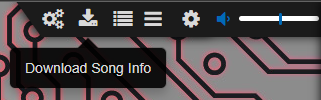
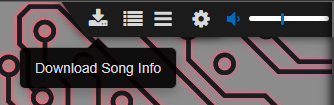
v0.4: Moved configuration to settings tabs

diff --git a/AMQ/SongsDownloader/AMQSongInfoDownloader.user.js b/AMQ/SongsDownloader/AMQSongInfoDownloader.user.js
@@ -1,50 +1,32 @@
 // ==UserScript==
 // @name         AMQ Song Info Downloader
 // @namespace    https://github.com/JabroAMQ/
-// @version      0.3.1
+// @version      0.4
 // @description  Download some info from the songs that played while playing AMQ
 // @author       Jabro, Spitzell
 // @match        https://animemusicquiz.com/*
 // @icon         https://www.google.com/s2/favicons?sz=64&domain=animemusicquiz.com
 // @grant        none
-// @require      https://raw.githubusercontent.com/TheJoseph98/AMQ-Scripts/master/common/amqWindows.js
 // @downloadURL  https://github.com/JabroAMQ/Utilities/blob/main/AMQ/SongsDownloader/AMQSongInfoDownloader.user.js
 // @updateURL    https://github.com/JabroAMQ/Utilities/blob/main/AMQ/SongsDownloader/AMQSongInfoDownloader.user.js
 // ==/UserScript==
 
 /*
 TODO LIST:
-
-- Prettify the output of `addSelectBox()` and `addCheckBox()` in CONFIGURATION WINDOW STUFF
-
-- Modify the way the user can access to the Configuration Window:
-    - Rather than having an in-game button that open a window for configuration (using TheJoseph98's `AMQWindow()` function)
-    - Make so that the configuration window can be opened from the Settings like in nyamu's amqHighlightFriends script case:
-    - https://github.com/nyamu-amq/amq_scripts/blob/master/amqHighlightFriends.user.js
-    - This is:
-        - https://i.imgur.com/iyEGnZm.png
-        - https://i.imgur.com/WkkvJkg.png
-    - Ideally we want to create a new Tab for this script
-    - It should only require to  modify `createConfigWindow()` in CONFIGURATION WINDOW STUFF (and delete `setupConfigWindowButton()`)
-
-- Add more functionallity (event listeners), and add these new options to the Configuration Window:
-    - autoDownloasOnLeavingLobby
+- Add more functionallity (event listeners), and add these new options to the Configuration Tab:
+    - autoDownloasOnLeavingLobby (while playing game only)
     - autoDownloadOnKickedFromLobby
     - autoDownloadOnServerRestart
 
+- Prettify Configuration Tab
 */
 
-const CHECK_INTERVAL = 500;
-const BUTTON_WIDTH = 30;
-const BUTTON_MARGIN_RIGHT = 5;
 const DOMAINS = {
     'EU': 'https://nl.catbox.video/',
     'NA1': 'https://ladst1.catbox.video/',
     'NA2': 'https://abdist1.catbox.video/'
 };
 
-let configWindow;
-let configWindowButton;
 let quizReadyListener;
 let quizOverListener;
 let selectedDomain = 'EU';
@@ -52,7 +34,7 @@ let autoDownloadOnQuizOver = false;
 let clearSongsInfoOnNewQuiz = false;
 let allSongs = [];
 
-// Load the script once the game has started
+// Load the script once the game has been loaded (after log in)
 let loadInterval = setInterval(() => {
     let loadingScreen = document.getElementById('loadingScreen');
     if (loadingScreen && loadingScreen.classList.contains('hidden')) {
@@ -60,12 +42,12 @@ let loadInterval = setInterval(() => {
         setup();
         clearInterval(loadInterval);
     }
-}, CHECK_INTERVAL);
+}, 500);
 
 function setup() {
     setupDownloadButton();
     setupListeners();
-    createConfigWindow();
+    addDownloaderSettingsTab();
 }
 
 
@@ -94,14 +76,17 @@ class SongInfo {
 
 
 function setupDownloadButton() {
+    const buttonWidth = 30;
+    const buttonMarginRight = 5;
+
     let downloadButton = $(`
         <div id='downloadButton' class='clickAble qpOption'>
             <i aria-hidden='true' class='fa fa-download qpMenuItem'></i>
         </div>`)
         .css({
-            width: `${BUTTON_WIDTH}px`,
+            width: `${buttonWidth}px`,
             height: '100%',
-            'margin-right': `${BUTTON_MARGIN_RIGHT}px`
+            'margin-right': `${buttonMarginRight}px`
         })
         .click(function () {
             downloadSongsInfo();
@@ -113,7 +98,7 @@ function setupDownloadButton() {
 	    });
 
     let currentWidth = $('#qpOptionContainer').width();
-    let extraWidth = BUTTON_WIDTH + BUTTON_MARGIN_RIGHT;
+    let extraWidth = buttonWidth + buttonMarginRight;
     $('#qpOptionContainer').width(currentWidth + extraWidth);
     $('#qpOptionContainer > div').append(downloadButton);
 }
@@ -170,48 +155,74 @@ function clearSongsInfo() {
 
 
 ////////////////////////////////////////////////////////////////////////////////
-//////////////////////////  CONFIGURATION WINDOW STUFF   ///////////////////////
+//////////////////////////  CONFIGURATION TAB STUFF   //////////////////////////
 ////////////////////////////////////////////////////////////////////////////////
 
-function createConfigWindow() {
-    configWindow = new AMQWindow({
-        title: 'Song Info Downloader Configuration',
-        position: { x: 0, y: 34 },
-        width: 400,
-        height: 300,
-        zIndex: 1010,
-        resizable: false,
-        draggable: true
-    });
+function addDownloaderSettingsTab() {
+    // Create the "Downloader" tab in settings
+    $('#settingModal .tabContainer')
+        .append($('<div></div>')
+            .addClass('tab songInfoDownloader clickAble')
+            .attr('onClick', "options.selectTab('settingsDownloaderContainer', this)")
+            .append($('<h5></h5>')
+                .text('Downloader')
+            )
+        );
 
-    configWindow.addPanel({
-        id: 'configWindowPanel',
-        width: 1.0,
-        height: 'calc(100%)',
-        scrollable: { x: false, y: false }
-    });
+    // Create the body base for "Downloader" tab
+    let downloaderTabContent = $('<div></div>')
+        .attr('id', 'settingsDownloaderContainer')
+        .addClass('settingContentContainer hide');
+    $('#settingModal .modal-body').append(downloaderTabContent);
 
+
+    // Create the "Change Prefered Host" select box for "Downloader" tab
     addSelectBox('Change prefered host', Object.keys(DOMAINS), (value) => {
         selectedDomain = value;
         saveUserConfig();
-    }, selectedDomain);
+    }, selectedDomain, 'settingsDownloaderContainer');
 
+    // Create the "Autodownload on Quiz End" checkbox for "Downloader" tab
     addCheckBox('Autodownload on quiz end', (checked) => {
         autoDownloadOnQuizOver = checked;
         saveUserConfig();
         updateAutoDownloadOnQuizOverListener();
-    }, autoDownloadOnQuizOver);
+    }, autoDownloadOnQuizOver, 'settingsDownloaderContainer');
 
+    // Create the "Reset Songlist on Quiz Start" checkbox for "Downloader" tab
     addCheckBox('Reset songlist on quiz start', (checked) => {
         clearSongsInfoOnNewQuiz = checked;
         saveUserConfig();
         updateClearSongsInfoOnNewQuizListener();
-    }, clearSongsInfoOnNewQuiz);
+    }, clearSongsInfoOnNewQuiz, 'settingsDownloaderContainer');
 
-    setupConfigWindowButton();
+
+    // Bind a click event listener to resize the settings modal width.
+    // We can't change its width directly as we want it to dynamically
+    // adjust to the modal-tab width, and we can't get it while the modal is hidden
+    $('#settingModal').on('shown.bs.modal', function () {
+        adjustModalWidth();
+    });
+
+    // Bind a click event listener to show the content of the "Downloader" tab when clicked
+    $('#settingModal .tabContainer').on('click', '.songInfoDownloader', function () {
+        downloaderTabContent.removeClass('hide');
+    });
+
+    // Bind a click event listener to hide the downloader tab when another tab is clicked
+    $('#settingModal .tabContainer').on('click', '.tab:not(.songInfoDownloader)', function () {
+        if (!downloaderTabContent.hasClass('hide')) {
+            downloaderTabContent.addClass('hide');
+
+            // Manually unselect the "Downloader" tab and select the one that was clicked (doesn't work well by default)
+            $('#settingModal .tabContainer .tab').removeClass('selected');
+            $(this).addClass('selected');
+        }
+    });
 }
 
-function addSelectBox(label, options, onChangeCallback, defaultValue) {
+
+function addSelectBox(label, options, onChangeCallback, defaultValue, containerId) {
     let id = label.replace(/\s/g, '');
 
     let selectContainer = $('<div>')
@@ -255,10 +266,10 @@ function addSelectBox(label, options, onChangeCallback, defaultValue) {
         });
 
     selectContainer.append(selectLabel, select);
-    configWindow.panels[0].panel.append(selectContainer);
+    $('#' + containerId).append(selectContainer);
 }
 
-function addCheckBox(label, onChangeCallback, defaultValue) {
+function addCheckBox(label, onChangeCallback, defaultValue, containerId) {
     let id = label.replace(/\s/g, '');
 
     let checkboxContainer = $('<div>')
@@ -287,31 +298,16 @@ function addCheckBox(label, onChangeCallback, defaultValue) {
         });
 
     checkboxContainer.append(checkbox, checkboxLabel);
-    configWindow.panels[0].panel.append(checkboxContainer);
+    $('#' + containerId).append(checkboxContainer);
 }
 
 
-function setupConfigWindowButton() {
-    configWindowButton = $(`
-        <div id='configWindowButton' class='clickAble qpOption'>
-            <i aria-hidden='true' class='fa fa-cogs qpMenuItem'></i>
-        </div>`)
-        .css({
-            width: `${BUTTON_WIDTH}px`,
-            height: '100%',
-            'margin-right': `${BUTTON_MARGIN_RIGHT}px`
-        })
-        .click(() => configWindow.isVisible() ? configWindow.close() : configWindow.open())
-        .popover({
-			placement: 'bottom',
-			content: 'Song Info Configuration',
-			trigger: 'hover'
-	    });
-
-    let currentWidth = $('#qpOptionContainer').width();
-    let extraWidth = BUTTON_WIDTH + BUTTON_MARGIN_RIGHT;
-    $('#qpOptionContainer').width(currentWidth + extraWidth);
-    $('#qpOptionContainer > div').append(configWindowButton);
+function adjustModalWidth() {
+    // Modify the overall settings modal's width dimension so that the added tab doesn't exceed it
+    let modalContent = $('#settingModal .modal-dialog');
+    let modalTab = $('#settingModal .tabContainer');
+    let desiredWidth = `${modalTab.width()}px`;
+    modalContent.css('width', desiredWidth);
 }
 
 
@@ -325,8 +321,10 @@ function getCookie(name) {
     let ca = document.cookie.split(';');
     for (let i = 0; i < ca.length; i++) {
         let c = ca[i];
-        while (c.charAt(0) === ' ') c = c.substring(1, c.length);
-        if (c.indexOf(nameEQ) === 0) return c.substring(nameEQ.length, c.length);
+        while (c.charAt(0) === ' ')
+            c = c.substring(1, c.length);
+        if (c.indexOf(nameEQ) === 0)
+            return c.substring(nameEQ.length, c.length);
     }
     return null;
 }

diff --git a/AMQ/SongsDownloader/readme.md b/AMQ/SongsDownloader/readme.md
@@ -41,6 +41,8 @@ This script consist of 2 parts:
 
 - You can also modify how the AMQ script behaves. Your configuration will automatically be applied and save for future sessions: 
 
+![OpenConfiguration](images/open_configuration.png)
+
 ![ScriptConfiguration](images/configuration.png)
 
 ## Python script
